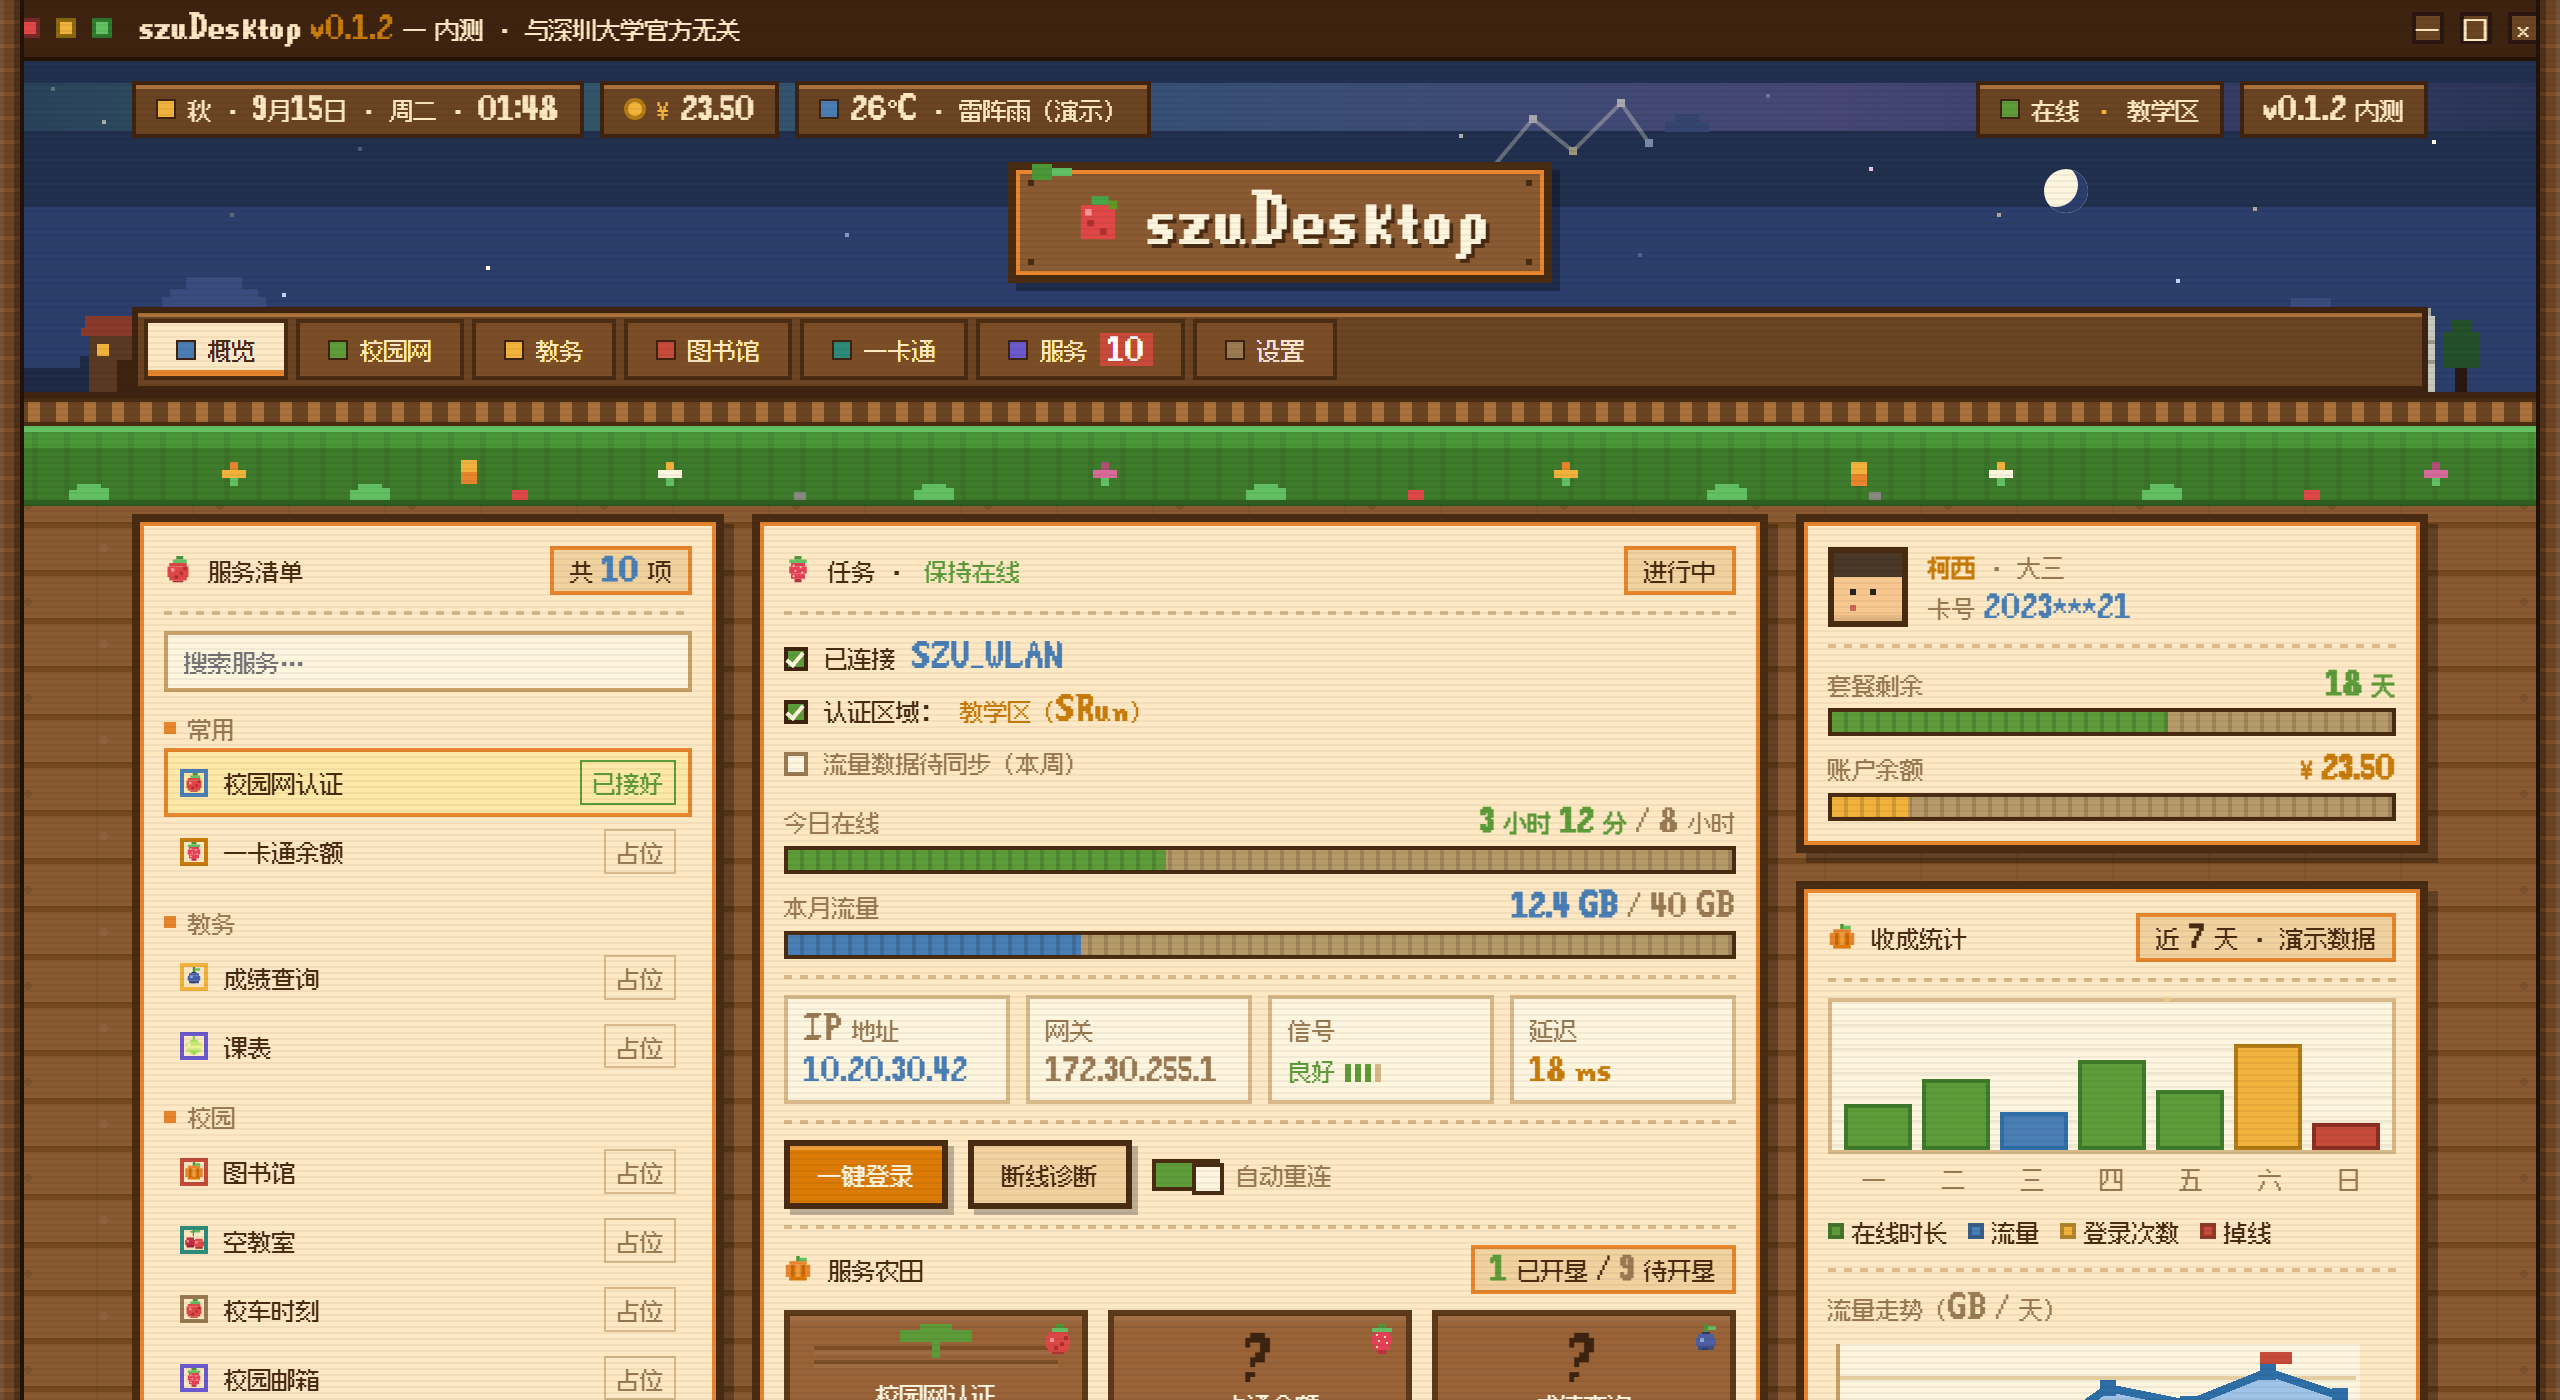
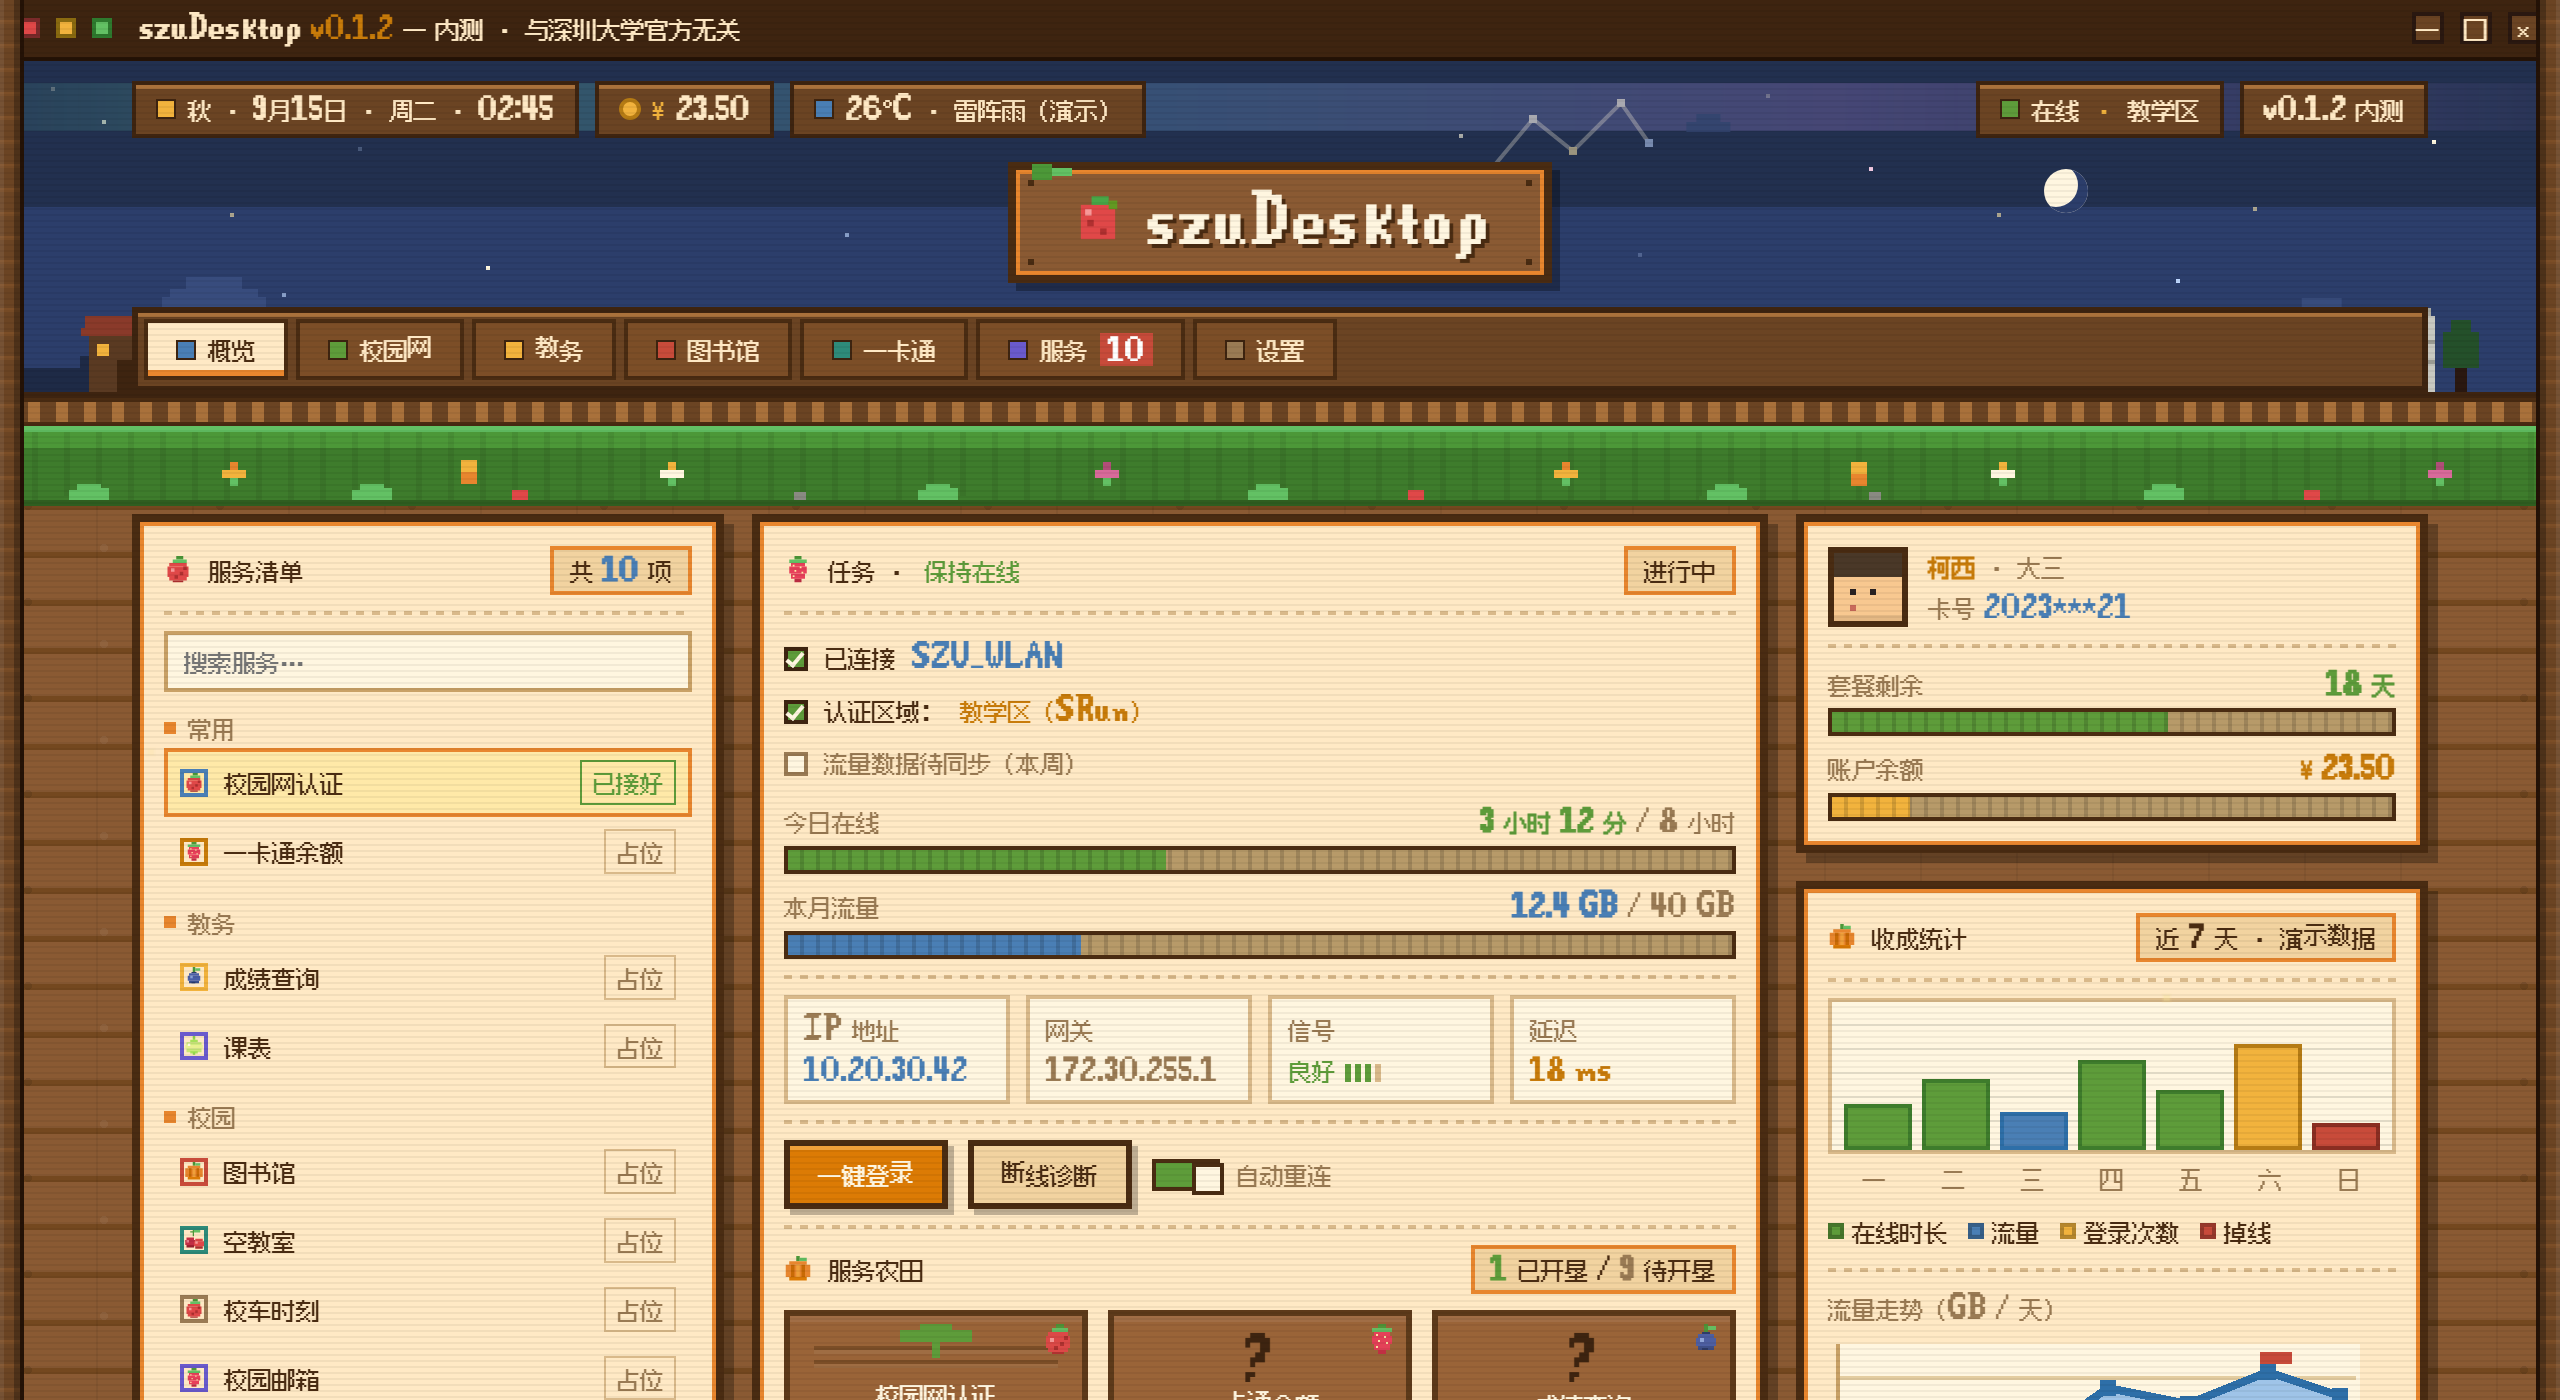
feat(desktop): 全站动感——字体逐字波浪跳、背景滚动、小部件呼吸
- 文字逐字包 .jp 弹跳，delay 递增连成全页波浪；flex 父元素包一层防吃 gap
- 耕地背景 8 帧走一格垄沟缓慢推进；云飘、月亮浮、极光/流星/萤火虫已有
- 小部件：金币翻转、进度条条纹流动、列表圆点跳、农田格子微跳、
  工具槽呼吸、图表柱子先长出后 hover 蹦、荔宝头像呼吸、CRT 扫描线下移
- 铁律：全部 steps() 硬切，保持像素味；prefers-reduced-motion 全停

Changed region(s): [[0.1875, 0.0614, 0.4688, 0.0921], [0.9062, 0.645, 0.9375, 0.6757], [0.1562, 0.2457, 0.1875, 0.2764]]

diff --git a/desktop/index.html b/desktop/index.html
@@ -322,9 +322,7 @@
     flex-wrap:wrap;}
   .harvest .cell{display:flex; flex-direction:column; align-items:center; gap:2px; width:46px;}
   .harvest .cell .n{color:var(--cream-line);}
-  .harvest .cell svg{animation:bob 2.8s steps(2) infinite;}
-  .harvest .cell:nth-child(2n) svg{animation-delay:.5s;}
-  .harvest .cell:nth-child(3n) svg{animation-delay:1.1s;}
+  .harvest .cell svg{animation:bob 2.8s steps(2) infinite var(--d,0s);}
   @keyframes bob{0%,88%,100%{transform:translateY(0)} 94%{transform:translateY(-3px)}}
 
   /* ---------- 页脚木板 ---------- */
@@ -344,6 +342,80 @@
   .modal .text{min-height:52px;}
   .modal .row{display:flex; justify-content:flex-end; gap:8px; margin-top:10px;}
   .cursor::after{content:"▌"; color:var(--coin); animation:blink .8s steps(2) infinite;}
+
+  /* ================= 动感 =================
+     铁律：所有动画都用 steps()，一格一格硬切。
+     用平滑缓动的话像素字会被抗锯齿糊掉，像素味立刻没了。
+     --d 是 JS 写的错开相位，让同类元素不同步跳。 */
+
+  /* 文字逐字跳跃：JS 把每个字包成 .jp，delay 递增连成波浪 */
+  .jp{display:inline-block; animation:jpb 1.4s steps(1) infinite var(--d,0s);}
+  @keyframes jpb{0%,84%,100%{transform:translateY(0)} 92%{transform:translateY(-2px)}}
+
+  /* 耕地缓慢向前推，8 帧正好走一格垄沟（24px） */
+  body{animation:soilPan 7s steps(8) infinite;}
+  @keyframes soilPan{
+    from{background-position:0 0, 0 0, 0 0, 0 0;}
+    to  {background-position:0 0, 0 0, 0 0, 0 24px;}
+  }
+
+  /* 云飘 · 月亮浮 */
+  .sky .cloud{animation:drift 30s steps(3) infinite var(--d,0s);}
+  @keyframes drift{0%,100%{transform:translateX(0)} 50%{transform:translateX(16px)}}
+  .sky .moon{animation:moonFloat 5.5s steps(2) infinite;}
+  @keyframes moonFloat{0%,100%{transform:translateY(0)} 50%{transform:translateY(-2px)}}
+
+  /* 草和花摇摆 */
+  .grassband .flower,.grassband .tuft{transform-origin:50% 100%;
+    animation:sway 2.6s steps(2) infinite var(--d,0s);}
+  @keyframes sway{0%,100%{transform:translateX(0)} 50%{transform:translateX(2px)}}
+
+  /* 木牌轻轻起伏 */
+  .sign{animation:signBob 3.4s steps(2) infinite;}
+  @keyframes signBob{0%,100%{transform:translateY(0)} 50%{transform:translateY(-1px)}}
+
+  /* 金币翻转 */
+  .chip .coin{animation:coinSpin 1.4s steps(2) infinite;}
+  @keyframes coinSpin{0%,100%{transform:scaleX(1)} 50%{transform:scaleX(.35)}}
+
+  /* 进度条条纹向右流 */
+  .bar::after{background-size:8px 100%; animation:stripe 1s steps(2) infinite;}
+  @keyframes stripe{from{background-position:0 0} to{background-position:8px 0}}
+
+  /* 列表小圆点上下跳 */
+  .feed .dot{animation:dotPulse 1.8s steps(2) infinite var(--d,0s);}
+  @keyframes dotPulse{0%,100%{transform:translateY(0)} 50%{transform:translateY(-2px)}}
+
+  /* 农田格子：像作物在长 */
+  .plot{animation:plotBob 3.2s steps(1) infinite var(--d,0s);}
+  @keyframes plotBob{0%,90%,100%{transform:translateY(0)} 95%{transform:translateY(-1px)}}
+
+  /* 工具栏：装了东西的槽呼吸 */
+  .slot.has{animation:slotBreath 2.8s steps(2) infinite var(--d,0s);}
+  @keyframes slotBreath{0%,100%{box-shadow:inset 0 0 0 2px var(--soil)}
+    50%{box-shadow:inset 0 0 0 2px var(--wood-lite)}}
+
+  /* 水果弹跳 + hover 蹦一下 */
+  .harvest .cell svg{animation:bob 2.8s steps(2) infinite var(--d,0s);}
+  @keyframes bob{0%,88%,100%{transform:translateY(0)} 94%{transform:translateY(-3px)}}
+  .panel h2:hover .fic,.plot:hover .pfruit,.harvest .cell:hover svg{animation:ficJump .4s steps(2) 2;}
+  @keyframes ficJump{0%,100%{transform:translateY(0)} 50%{transform:translateY(-4px)}}
+
+  /* 图表柱子：先长出来，hover 再蹦 */
+  .chart .col i{transform-origin:50% 100%; animation:barGrow .7s steps(7) both;}
+  @keyframes barGrow{from{transform:scaleY(0)} to{transform:scaleY(1)}}
+  .chart .col:hover i{animation:ficJump .4s steps(2) 2;}
+
+  /* 荔宝头像呼吸 */
+  .talk .who-face,.modal .face{animation:faceBob 2.2s steps(2) infinite;}
+  @keyframes faceBob{0%,100%{transform:translateY(0)} 50%{transform:translateY(-2px)}}
+
+  /* CRT 扫描线缓慢下移 */
+  body::after{background-size:100% 3px; animation:scan 3s steps(3) infinite;}
+  @keyframes scan{from{background-position:0 0} to{background-position:0 3px}}
+
+  /* 系统开了「减少动态效果」就全停 */
+  @media (prefers-reduced-motion: reduce){ *,*::before,*::after{animation:none !important;} }
 
   footer{color:var(--cream-line); text-align:center; padding:8px 0 16px;}
   ::selection{background:var(--accent); color:#fff;}
@@ -1003,6 +1075,7 @@ for (let i = 0; i < 12; i++){
   if (dockIcons[i]){
     s.innerHTML = dockIcons[i].html + `<span class="key">${i + 1}</span>`;
     s.dataset.say = i;
+    s.classList.add("has");
     s.onclick = () => modal("工具槽 " + (i + 1), dockIcons[i].say);
   } else {
     s.onclick = () => modal("空工具槽", SAY.slotEmpty);
@@ -1058,6 +1131,51 @@ document.getElementById("sw-auto").addEventListener("change", e =>
   modal("自动重连", e.target.checked ? "已打开。接上内核后会每 [[y|15 秒]]检查一次，掉了自动补登。" : "已关闭。手动点[[g|一键登录]]就行。"));
 document.querySelectorAll("[data-say]").forEach(el =>
   el.addEventListener("click", () => modal("荔宝", SAY[el.dataset.say] || "……")));
+
+/* ---------- 动感：错开相位 + 逐字跳 ---------- */
+/* --d 只写 CSS 变量，不写 animation-delay，否则 hover 时的临时动画会继承这个延迟而不动 */
+function stagger(sel, step){
+  document.querySelectorAll(sel).forEach((el, i) =>
+    el.style.setProperty("--d", (-i * step).toFixed(2) + "s"));
+}
+let wave = 0;   // 全页共用一条波浪，字会从左到右依次起伏
+function bounceText(root){
+  const tw = document.createTreeWalker(root, NodeFilter.SHOW_TEXT);
+  const nodes = [];
+  while (tw.nextNode()) nodes.push(tw.currentNode);
+  nodes.forEach(n => {
+    if (!n.textContent.trim()) return;
+    const frag = document.createDocumentFragment();
+    for (const ch of n.textContent){
+      if (!ch.trim()){ frag.appendChild(document.createTextNode(ch)); continue; }
+      const s = document.createElement("span");
+      s.className = "jp";
+      s.textContent = ch;
+      s.style.animationDelay = (wave++ * 0.06 % 1.4).toFixed(2) + "s";
+      frag.appendChild(s);
+    }
+    /* 父元素是 flex 时，直接塞 span 会一字一格吃进 gap，包一层防开 */
+    if (getComputedStyle(n.parentNode).display.indexOf("flex") >= 0){
+      const wrap = document.createElement("span");
+      wrap.style.display = "inline-block";
+      wrap.appendChild(frag);
+      n.parentNode.replaceChild(wrap, n);
+    } else {
+      n.parentNode.replaceChild(frag, n);
+    }
+  });
+}
+function juice(){
+  stagger(".sky .cloud", 7);
+  stagger(".grassband .flower, .grassband .tuft", 0.37);
+  stagger(".plot", 0.3);
+  stagger(".feed .dot", 0.23);
+  stagger(".harvest .cell svg", 0.45);
+  stagger(".slot.has", 0.7);
+  document.querySelectorAll(".sign h1, .panel h2, .tab, .btn, .harvest .n, .plot .name")
+    .forEach(bounceText);
+}
+juice();
 
 /* ---------- HUD 时钟 ---------- */
 function tick(){
